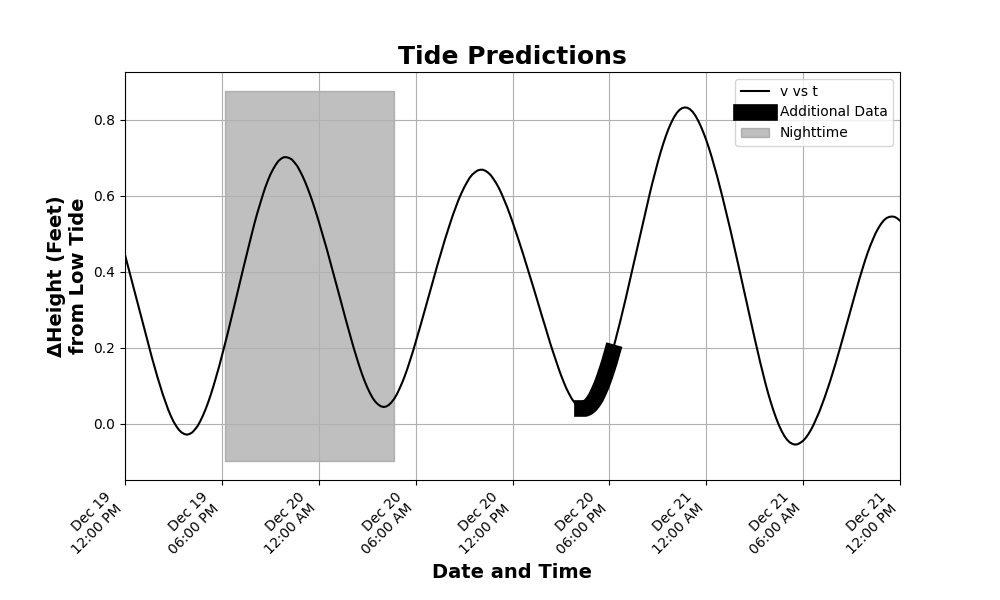
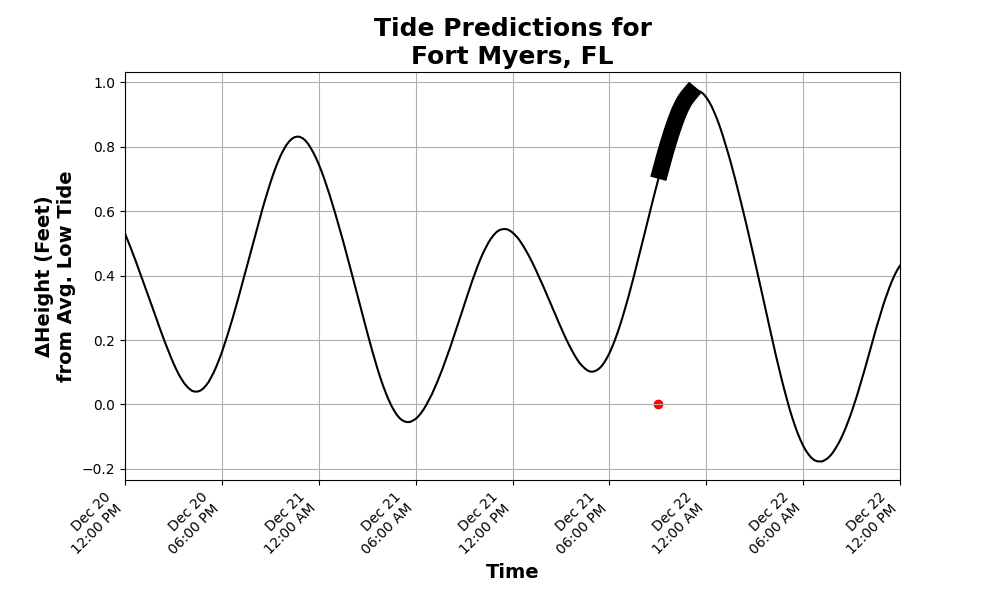
Correct plot x-axis formatting to account for timezone

diff --git a/8-image_draw_tests.py b/8-image_draw_tests.py
@@ -10,6 +10,8 @@ import ephem
 
 print("BEGINNING")
 
+PERIOD = 2 #hours between TPL5110 reloads
+
 def get_timezone(latitude, longitude):
     tf = TimezoneFinder()
     timezone_str = tf.timezone_at(lng=longitude, lat=latitude)
@@ -22,8 +24,6 @@ def get_timezone(latitude, longitude):
 
 def get_sunrise_sunset(latitude, longitude, date, zone=None):
 
-    print("sunrise/sunset function")
-    print("\t", longitude, latitude, date, zone)
     # Create an observer object
     observer = ephem.Observer()
     observer.lon = str(longitude)
@@ -57,55 +57,26 @@ def get_station_info(station_id):
                 return city, state, decimal_latitude, decimal_longitude, get_timezone(decimal_latitude, decimal_longitude)
 
 def fetch_NOAA_data(station_id, date):
-    range_hours = 60
-    datum = "mllw"
-    interval_minutes = 10
+    RANGE_HOURS = 60
+    DATUM = "mllw"
+    INTERVAL_MINUTES = 10
+    yesterday_date_string = date.strftime("%Y%m%d")
 
     # Modify the URL with yesterday's date and the station ID variable
-    url = f"https://api.tidesandcurrents.noaa.gov/api/prod/datagetter?begin_date={yesterday_date_string}&range={range_hours}&product=predictions&datum={datum}&interval={interval_minutes}&format=json&units=english&time_zone=lst_ldt&station={station_id}"
-    print("\n"+url+"\n")  # Change print statement
+    url = f"https://api.tidesandcurrents.noaa.gov/api/prod/datagetter?begin_date={yesterday_date_string}&range={RANGE_HOURS}&product=predictions&datum={DATUM}&interval={INTERVAL_MINUTES}&format=json&units=english&time_zone=lst_ldt&station={station_id}"
 
     # Retrieve data from the URL
     response = requests.get(url)
     
     return response.json()
 
-# Modify the plot_tide_predictions function to use get_station_coordinates
-def compute_station_time_info(station_id):
-    city, state, lat, long, zone = get_station_info(station_id)
-    
-    # _dtz := date, time,
-    now_dtz = dt.datetime.now(zone)
-    today_d = now_dtz.date()
-    yesterday_d = today_d - dt.timedelta(days=1)
-    tomorrow_d = today_d + dt.timedelta(days=1)
-
-    print(f"DEBUG - today:\n\t {today_d}")
-    print(f"DEBUG - city, state, zone\n\t{city}, {state}, {zone}")
-    print()
-
-    yesterday_sunrise, yesterday_sunset = get_sunrise_sunset(lat, long, yesterday_d, zone)
-    today_sunrise, today_sunset = get_sunrise_sunset(lat, long, today_d, zone)
-    tomorrow_sunrise, tomorrow_sunset = get_sunrise_sunset(lat, long, tomorrow_d, zone)
-
-    print()
-    print("Yesterday")
-    print(yesterday_d, "\n\t", yesterday_sunrise.strftime("%I:%M %p %Z"), "\n\t", yesterday_sunset.strftime("%I:%M %p %Z"),"\n")
-    print("Today")
-    print(today_d, "\n\t", today_sunrise.strftime("%I:%M %p %Z"), "\n\t", today_sunset.strftime("%I:%M %p %Z"),"\n")
-    print("Tomorrow")
-    print(tomorrow_d, "\n\t", tomorrow_sunrise.strftime("%I:%M %p %Z"), "\n\t", tomorrow_sunset.strftime("%I:%M %p %Z"),"\n")
-
-    return
-
-
-def plot_data(data):
+def plot_data(data, now_dtz):
      # Extract time and value data. strptime converts string to datetime
     all_times = [dt.datetime.strptime(entry['t'], '%Y-%m-%d %H:%M') for entry in data['predictions']]
+    all_times = [_.replace(tzinfo=now_dtz.tzinfo) for _ in all_times]
     all_values = [float(entry['v']) for entry in data['predictions']]
 
-    # Calculate the start time as 12 hours ago
-    start_time = now - dt.timedelta(hours=12)
+    start_time = (now_dtz - dt.timedelta(days = 1)).replace(hour = 12, minute = 0, second = 0, microsecond = 0)
 
     # Filter data points that occurred after the start time
     filtered_times = [t for t in all_times if t >= start_time]
@@ -114,63 +85,58 @@ def plot_data(data):
     # Plotting
     plt.figure(figsize=(10, 6))
 
-    # Plot filtered data with a black line
+    # Plot filtered data
+    # plt.plot(all_times, all_values, label='v vs t', color='black')
     plt.plot(filtered_times, filtered_values, label='v vs t', color='black')
-
-    plt.title('Tide Predictions', fontsize=18, weight='bold')  # Larger title
+    plt.title(f'Tide Predictions for\n{city}, {state}', fontsize=18, weight='bold')
     plt.xlabel('Time', fontsize=14, weight='bold')  # Bold x-axis label
-    plt.ylabel('ΔHeight (Feet)\nfrom Low Tide', fontsize=14, weight='bold')  # Changed y-axis label
+    plt.ylabel('ΔHeight (Feet)\nfrom Avg. Low Tide', fontsize=14, weight='bold')  # Changed y-axis label
 
-    # Format x-axis dates with three-letter month abbreviation, rotate, and display time
+    # This sets the printed format of the x-axis labels
+    plt.gca().xaxis.set_major_formatter(mdates.DateFormatter('%b %d\n%I:%M %p', tz=zone))
+    # This (probably) ensures that the x-axis is labeled in 6-hour increments. (Although this probably happens automatically)
     plt.gca().xaxis.set_major_locator(mdates.HourLocator(interval=6))  # Show every 6 hours
-    plt.gca().xaxis.set_major_formatter(mdates.DateFormatter('%b %d\n%I:%M %p'))
+    # This rotates the labels and prevents overlapping 
     plt.gcf().autofmt_xdate(rotation=45)  # Rotate x-axis labels for better visibility
 
-    # Set x-axis range to start at 12:00 PM
+    # Set x-axis range to start at 12:00 PM and go to the last time in the list
     plt.xlim(start_time, filtered_times[-1])
 
     # Overlay additional data points onto the existing plot with a black, solid line and linewidth 12
-    two_hours_later = now + timedelta(hours=2)
-    additional_times = [t for t in all_times if now <= t <= two_hours_later]
-    additional_values = [v for t, v in zip(all_times, all_values) if now <= t <= two_hours_later]
+    two_hours_later = now_dtz + dt.timedelta(hours=PERIOD)
+    present_times = [t for t in filtered_times if now_dtz <= t <= two_hours_later]
+    present_values = [v for t, v in zip(filtered_times, filtered_values) if now_dtz <= t <= two_hours_later]
+    plt.plot(present_times, present_values, label='Present Stretch', color='black', linewidth=12)
 
-    plt.plot(additional_times, additional_values, label='Additional Data', color='black', linewidth=12)
-
-    # Set y-limits to cover the entire range
-    plt.ylim(plt.gca().get_ylim()[0], plt.gca().get_ylim()[1])
-    # Highlight the area between yesterday's sunset and today's sunrise
-    plt.fill_between(x=[yesterday_sunset, today_sunrise], y1=plt.gca().get_ylim()[0], y2=plt.gca().get_ylim()[1], color='gray', alpha=0.5, label='Nighttime')
-    
-    str_yesterday_sunset = yesterday_sunset.strftime("%I:%M %p %Z")
-    print(f"yesterday sunset: {str_yesterday_sunset}")
-    
+    plt.scatter(now_dtz, 0 , color='r', label='New Point')
 
     plt.grid(True)
 
-#    plt.legend()
-
-    # Save the plot as an image
     plt.savefig("plot_image.png")
+    plt.show()
 
-    # Show the plot (optional)
-    # plt.show()
-
-    # Open the saved image using PIL
     img = Image.open("plot_image.png")
-    # Display the image (optional)
-    img.show()
-
-    # Save the image with a new filename if needed
-    # img.save("saved_plot_image.png")
-
+    #img.show()
     img.close()
+
+    return
 
 # Call the function with a specific station_id when the module is run directly
 if __name__ == "__main__":
     station_id = "8725520" # Ft Myers
-    #station_id = "8738043" # West Fowl River Bridge 
-    compute_station_time_info(station_id)
+    # station_id = "8738043" # West Fowl River Bridge 
 
-    #data = fetch_NOAA_data(station_id, yesterday)
+    city, state, lat, long, zone = get_station_info(station_id)
+    
+    now_dtz = dt.datetime.now(zone) # _dtz := date, time, zone
+    today_d = now_dtz.date()
+    yesterday_d = today_d - dt.timedelta(days = 1)
+    tomorrow_d = today_d + dt.timedelta(days = 1)
 
-    #plot_data(data)
+    yesterday_sunrise, yesterday_sunset = get_sunrise_sunset(lat, long, yesterday_d, zone)
+    today_sunrise, today_sunset = get_sunrise_sunset(lat, long, today_d, zone)
+    tomorrow_sunrise, tomorrow_sunset = get_sunrise_sunset(lat, long, tomorrow_d, zone)    
+
+    data_json = fetch_NOAA_data(station_id, yesterday_d)
+
+    plot_data(data_json, now_dtz)

diff --git a/sandbox.py b/sandbox.py
@@ -1,0 +1,35 @@
+import matplotlib.pyplot as plt
+import matplotlib.dates as mdates
+from datetime import datetime, timedelta, timezone
+
+# Sample data with timezone information
+now_dtz = datetime.now(timezone.utc)
+yesterday_sunset = now_dtz - timedelta(hours=24)  # Replace with actual sunset time
+today_sunrise = now_dtz + timedelta(hours=6)  # Replace with actual sunrise time
+today_sunset = now_dtz + timedelta(hours=18)  # Replace with actual sunset time
+tomorrow_sunrise = now_dtz + timedelta(hours=30)  # Replace with actual sunrise time
+
+# Plotting
+plt.figure(figsize=(10, 6))
+
+# Highlight the area between yesterday's sunset and today's sunrise
+plt.fill_between(x=[yesterday_sunset, today_sunrise], y1=plt.gca().get_ylim()[0], y2=plt.gca().get_ylim()[1], color='gray', alpha=0.5, label='Nighttime')
+
+# Highlight the area between today's sunset and tomorrow's sunrise
+plt.fill_between(x=[today_sunset, tomorrow_sunrise], y1=plt.gca().get_ylim()[0], y2=plt.gca().get_ylim()[1], color='gray', alpha=0.5, label='Nighttime')
+
+# Formatting x-axis labels as AM/PM in the specified timezone (e.g., UTC)
+plt.gca().xaxis.set_major_locator(mdates.HourLocator(interval=1))
+plt.gca().xaxis.set_major_formatter(mdates.DateFormatter('%I:%M %p', tz=timezone.utc))
+
+# Set labels and title
+plt.xlabel('Time')
+plt.ylabel('Values')
+plt.title('Plot with Datetime X-axis in AM/PM Format and Timezone UTC')
+
+# Rotate x-axis labels for better readability
+plt.xticks(rotation=45)
+
+# Display the plot
+plt.legend()
+plt.show()

diff --git a/z_code fragments.py b/z_code fragments.py
@@ -1,0 +1,16 @@
+print()
+print("Yesterday")
+print(yesterday_d, "\n\t", yesterday_sunrise.strftime("%I:%M %p %Z"), "\n\t", yesterday_sunset.strftime("%I:%M %p %Z"),"\n")
+print("Today")
+print(today_d, "\n\t", today_sunrise.strftime("%I:%M %p %Z"), "\n\t", today_sunset.strftime("%I:%M %p %Z"),"\n")
+print("Tomorrow")
+print(tomorrow_d, "\n\t", tomorrow_sunrise.strftime("%I:%M %p %Z"), "\n\t", tomorrow_sunset.strftime("%I:%M %p %Z"),"\n")
+
+    '''
+    # Set y-limits to cover the entire range. For shading at night. 
+    plt.ylim(plt.gca().get_ylim()[0], plt.gca().get_ylim()[1])
+    # Highlight the area between yesterday's sunset and today's sunrise
+    plt.fill_between(x=[yesterday_sunset, today_sunrise], y1=plt.gca().get_ylim()[0], y2=plt.gca().get_ylim()[1], color='gray', alpha=0.5, label='Nighttime')
+    # Highlight the area between today's sunset and tomorrow's sunrise
+    plt.fill_between(x=[today_sunset, tomorrow_sunrise], y1=plt.gca().get_ylim()[0], y2=plt.gca().get_ylim()[1], color='gray', alpha=0.5, label='Nighttime')
+    '''
